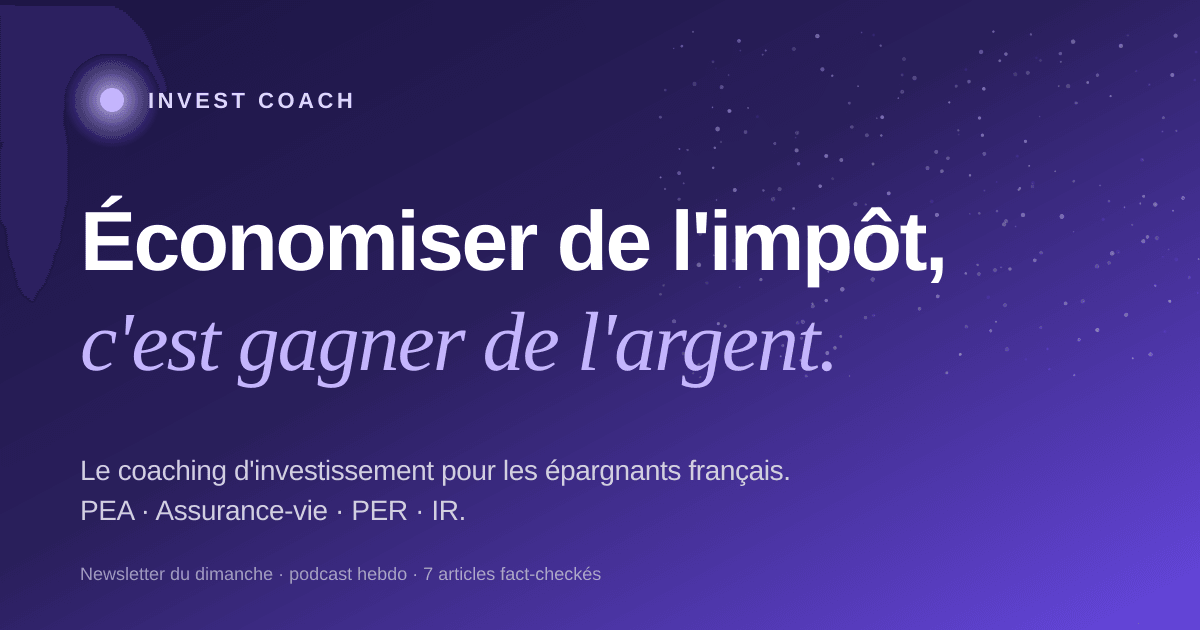
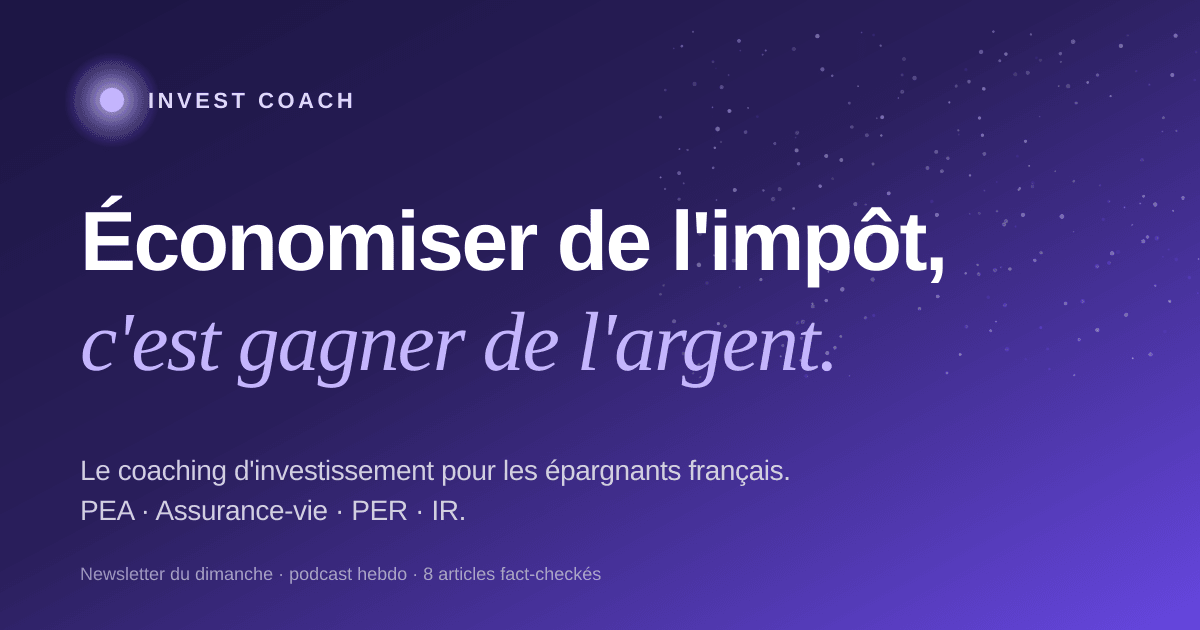
content: article #8 — Or vs S&P 500 (allocation, pas opposition)
Adds the eighth journal article: "Or ou ETF S&P 500 ? La vraie question,
c'est combien de chaque." Inserted as freshest → "À la une" featured
card, displaces the ETF World article (#7) to the list.

Why this topic, why now:
- Pairs with article #7 (ETF World) by adding the asset-class debate
  layer. Reader path now: choose enveloppe (#1, #6) → choose ETF
  inside (#7) → understand why you might want a non-equity sleeve (#8).
- Most-asked question in any French finance forum / Twitter thread:
  "Or ou bourse ?" Almost always framed as a binary. Reframing it as
  allocation (90/10, 25/25/25/25, etc.) is the actual insight.
- Currently macro-relevant: gold made an all-time high in 2025-26, and
  every newsletter is asking whether to "rotate". The article cuts
  the noise by anchoring on 50-year correlation data.

Editorial highlights:
- ~1,800 words, 7 min read.
- Comparison table (rendement, volatilité, corrélation, comportement
  en crise) up front so skimmers get the punchline.
- Three documented portfolios: 100 % S&P, 90/10 stocks-gold, Permanent
  Portfolio (Browne 25/25/25/25). Each with drawdown numbers from
  history (−54 % vs −47 % vs −15 %).
- Honest negatives on gold: −45 % between 1980-2001, doesn't pay
  dividends, "valeur refuge" is a lazy term.
- French wrappers worked through carefully:
  - S&P 500 → PE500 (Amundi) PEA-éligible synthetic, ~0,15 % TER.
  - Gold physical → 0 % TVA on investment-grade, two tax regimes
[…]

Changed region(s): [[0.0, 0.0, 0.1233, 0.1508]]

diff --git a/invest-coach/web/app/articles/articles.ts b/invest-coach/web/app/articles/articles.ts
@@ -9,6 +9,177 @@ export type Article = {
 
 export const ARTICLES: Article[] = [
   {
+    slug: "or-vs-sp500-etf",
+    title: "Or ou ETF S&P 500 ? La vraie question, c'est combien de chaque.",
+    teaser:
+      "Tout les oppose : un actif productif vs un actif sans rendement. Pourtant, les portefeuilles qui ont tenu 50 ans sans paniquer en avaient des deux. Voici pourquoi — et combien.",
+    readMinutes: 7,
+    updated: "2026-04-29",
+    body: `## Le résumé en 30 secondes
+
+L'**ETF S&P 500** te rend propriétaire des 500 plus grandes
+entreprises américaines : Apple, Microsoft, NVIDIA, JP Morgan, Exxon.
+Il **produit** : ces entreprises génèrent des bénéfices, paient des
+salaires, payent des dividendes, croissent. Sur 30 ans, il a fait
+**~10 % par an en moyenne** (en USD).
+
+L'**or** ne produit rien. Il ne paye pas de dividende, ne génère pas
+de bénéfice, ne crée pas d'emploi. Sa valeur tient à une seule chose :
+ce que les autres sont prêts à payer pour en avoir, surtout quand le
+reste leur fait peur. Sur 30 ans, il a fait **~6 % par an** (en USD).
+
+L'or perd, donc ? Pas si vite. **Sur les 5 pires années du S&P 500
+des 50 dernières années** (1973, 1981, 2002, 2008, 2022), l'or a fait
+en moyenne **+15 %**. C'est le rôle qu'il joue : assurance contre le
+moment où l'économie productive vacille.
+
+## Pourquoi on les compare souvent (à tort)
+
+Les deux sont vendus comme "valeurs refuges". Le terme est paresseux —
+ils n'ont presque rien à voir.
+
+| | ETF S&P 500 | Or |
+|---|---|---|
+| Type d'actif | Productif (entreprises) | Réserve de valeur |
+| Rendement à long terme | ~10 %/an | ~6 %/an |
+| Volatilité annuelle | ~16 % | ~15 % |
+| Corrélation avec les actions | 1,0 (lui-même) | ~0,1 (très faible) |
+| Comportement en crise majeure | Baisse 20-50 % | Hausse 10-30 % |
+| Comportement en hausse de l'inflation | Variable | Hausse |
+| Comportement en bull market normal | +20-30 %/an | Plat ou en baisse |
+
+Le bon réflexe : **comparer leur usage**, pas leur performance brute.
+Le S&P 500 fait le boulot 80 % du temps. L'or fait le boulot pendant
+les 20 % qui font mal.
+
+## Comment loger les deux quand on est résident fiscal français
+
+### S&P 500 — PEA-éligible via synthétique
+
+L'ETF **PE500** (Amundi PEA S&P 500 UCITS ETF, TER ~0,15 %) est
+**éligible au PEA** grâce à la réplication par swap. C'est le plus
+simple, le moins cher, et le plus avantageux fiscalement :
+
+- TER ~0,15 %/an (parmi les plus bas du marché)
+- PEA après 5 ans → exonération d'IR sur les gains (il reste 17,2 %
+  de prélèvements sociaux)
+- Acc (les dividendes US sont automatiquement réinvestis)
+
+Les ETF S&P 500 **non synthétiques** (CSPX, SPY) ne sont pas
+PEA-éligibles · à acheter en CTO ou en AV en UC.
+
+### Or — pas PEA-éligible, plusieurs voies
+
+**1. Physique (pièces, lingots)**
+
+- Boutique : Aurum, Comptoir de l'Or, Numiscoach, CPoR.
+- TVA : **0 %** sur les pièces et lingots d'investissement (or
+  monétaire, pureté ≥ 995 ‰).
+- Frais : prime à l'achat 2-5 % (selon poids), commission de revente
+  1-3 %.
+- Stockage : coffre bancaire (~120 €/an), coffre maison (chez toi,
+  ton risque).
+- **Fiscalité à la revente** : tu choisis entre la **taxe sur les
+  métaux précieux** (11 % du prix de vente, sans calcul de
+  plus-value) ou le **régime des plus-values de biens meubles** (PFU
+  36,2 % sur la plus-value, abattement 5 %/an après 2 ans, exonération
+  totale après 22 ans). Pour la plupart des cas, le 1er régime est
+  plus simple.
+
+**2. ETC (Exchange Traded Commodity)**
+
+- Tickers populaires : **4GLD** (Xtrackers IE Physical Gold), **PHAU**
+  (WisdomTree Physical Gold), **SGLD** (Invesco Physical Gold).
+- TER 0,12 à 0,25 %/an.
+- Adossé à de l'or physique stocké en coffre (Londres, Zurich).
+- **Pas PEA-éligible** (matière première, pas action).
+- Logeable sur **CTO** (le plus simple) ou **AV** en UC (vérifier que
+  le contrat propose un ETC or — souvent le cas chez Linxea Spirit).
+- Fiscalité CTO : **PFU 30 %** sur la plus-value à la revente.
+- Fiscalité AV : abattement 4 600 €/9 200 € après 8 ans, puis PFL
+  ou PFU.
+
+**3. Gold mining stocks (à éviter pour la plupart)**
+
+Les actions de minières d'or (Newmont, Barrick) sont **2 à 3 fois
+plus volatiles** que l'or physique. Elles répondent à l'or **plus**
+au risque opérationnel des compagnies. Sauf si tu as une thèse
+spécifique, reste sur l'or pur.
+
+## Combien d'or, combien de S&P 500 ?
+
+Trois portefeuilles documentés sur 50+ ans :
+
+### Le 100 % S&P 500
+
+Performance brute la plus élevée. Drawdown maximum **−54 % (2008)**
+sur 18 mois. Tu as récupéré ton point haut en **5 ans**. Si tu peux
+encaisser ça mentalement et que tu ne touches pas, c'est rentable.
+Si tu vends pendant le creux, tu matérialises la perte.
+
+### Le 90 % S&P 500 + 10 % or
+
+Performance presque identique sur 30 ans (~9,5 % vs 10 %), mais
+**drawdown maximum réduit à −47 %**. Tu sors les 7 points qui font
+le plus mal mentalement, sans payer beaucoup en performance. Pour la
+plupart des épargnants, c'est le ratio le plus pratique.
+
+### Le "Permanent Portfolio" de Harry Browne
+
+25 % actions / 25 % obligations long terme / 25 % or / 25 % cash. Sur
+50 ans, ~6 %/an avec un drawdown maximum de **~−15 %**. Trois fois
+moins de panique, deux fois moins de performance. Bien si tu retraites
+dans 5 ans, mauvais si tu épargnes pour 30 ans.
+
+**Recommandation pratique pour un cadre français de 30-45 ans :**
+
+- **PEA saturé d'ETF World ou S&P 500** (90 % de ton allocation
+  bourse).
+- **AV avec un ETC or 4GLD** (10 % de ton allocation bourse), ou
+  quelques pièces physiques (Napoléons 20 F, Krugerrand) que tu
+  achètes une fois et oublies.
+
+Tu n'as pas besoin de plus. Tu n'as surtout pas besoin de **rebalancer
+chaque trimestre** : une fois par an suffit largement.
+
+## Les pièges à éviter
+
+- **L'or "investissement" via assurance-vie bancaire** avec frais de
+  gestion 1,5 %/an + frais de l'ETC 0,25 %/an. Tu paies 1,75 %/an pour
+  un actif qui fait 6 %/an : tu en gardes ~4 %. À éviter.
+- **Le S&P 500 acheté au plus haut, vendu au plus bas.** L'historique
+  des flux retail montre que la plupart achètent en 2021 (au pic) et
+  vendent en mars 2022 (au creux). Le DCA mensuel évite ça.
+- **L'or physique en grand volume sans coffre.** Au-delà de 5 000 €
+  de pièces chez toi, le risque de cambriolage > le bénéfice de
+  diversification. Coffre bancaire ou ETC.
+- **Croire que l'or "ne perd jamais".** Il a perdu **−45 % entre 1980
+  et 2001**. Vingt et un ans à plat avec inflation cumulée. C'est un
+  diversificateur, pas une rente.
+- **Ignorer la corrélation.** Le grand atout de l'or, c'est sa
+  corrélation **proche de zéro** avec les actions. C'est ce qui fait
+  qu'il **ajoute du rendement par unité de risque**, pas qu'il bat
+  les actions.
+
+## Le mot de la fin
+
+La vraie question n'est jamais "or **ou** S&P 500". C'est "**combien**
+de chaque, et pour quel horizon".
+
+Pour la majorité des épargnants français qui investissent à 20-30 ans,
+la formule la plus simple :
+
+- **90 % en ETF actions** (S&P 500 ou World) dans le PEA.
+- **10 % en or** (ETC ou pièces physiques) dans une AV ou un CTO.
+- **Pas de rebalancement plus d'une fois par an.**
+- **Pas de regard quotidien sur les cours.**
+
+Le S&P 500 te paie de croire en l'économie productive. L'or te paie
+quand cette croyance vacille. Avoir les deux, c'est admettre que tu
+ne sais pas dans laquelle des deux situations tu seras dans 10 ans —
+et que c'est ok.`,
+  },
+  {
     slug: "etf-world-cw8-wpea-ese",
     title: "ETF MSCI World : CW8, WPEA ou ESE — lequel choisir ?",
     teaser:

diff --git a/invest-coach/web/app/page.tsx b/invest-coach/web/app/page.tsx
@@ -495,7 +495,7 @@ function TrustStatsBar() {
       >
         {[
           { num: "Depuis 2024", label: "Newsletter du dimanche, sans interruption." },
-          { num: "7 articles", label: "Tous fact-checkés, mis à jour à chaque réforme." },
+          { num: "8 articles", label: "Tous fact-checkés, mis à jour à chaque réforme." },
           { num: "1 podcast", label: "Premier épisode sur Spotify · trois par mois à venir." },
         ].map((s) => (
           <div key={s.label} className="text-center md:text-left">

diff --git a/docs/strategy/2026-W18-priorities.md b/docs/strategy/2026-W18-priorities.md
@@ -72,7 +72,7 @@ Two moves, executed in series:
    the original photographer, we fall back to a colored panel. Detect
    on first iPhone visual check; mirror to `/public/` if any breaks.
 4. **No real testimonials yet** — the trust bar uses real-but-thin
-   numbers ("7 articles · 1 podcast"). After 10 paying users, get
+   numbers ("8 articles · 1 podcast"). After 10 paying users, get
    one or two written testimonials and replace the trust bar with a
    real-name + city + quote pattern.
 
